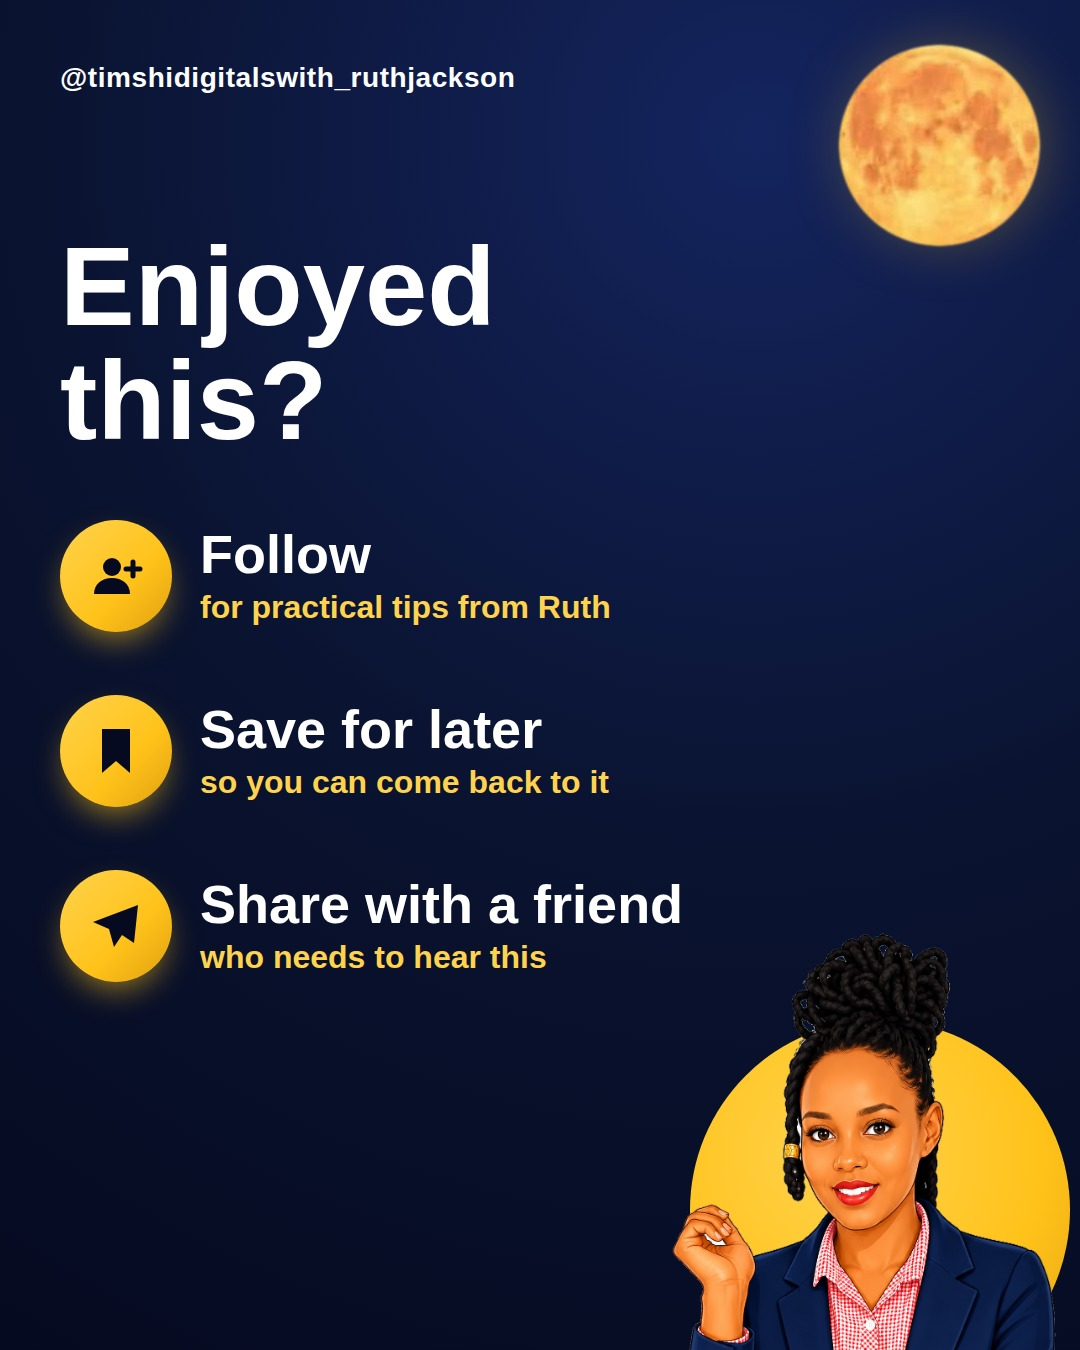
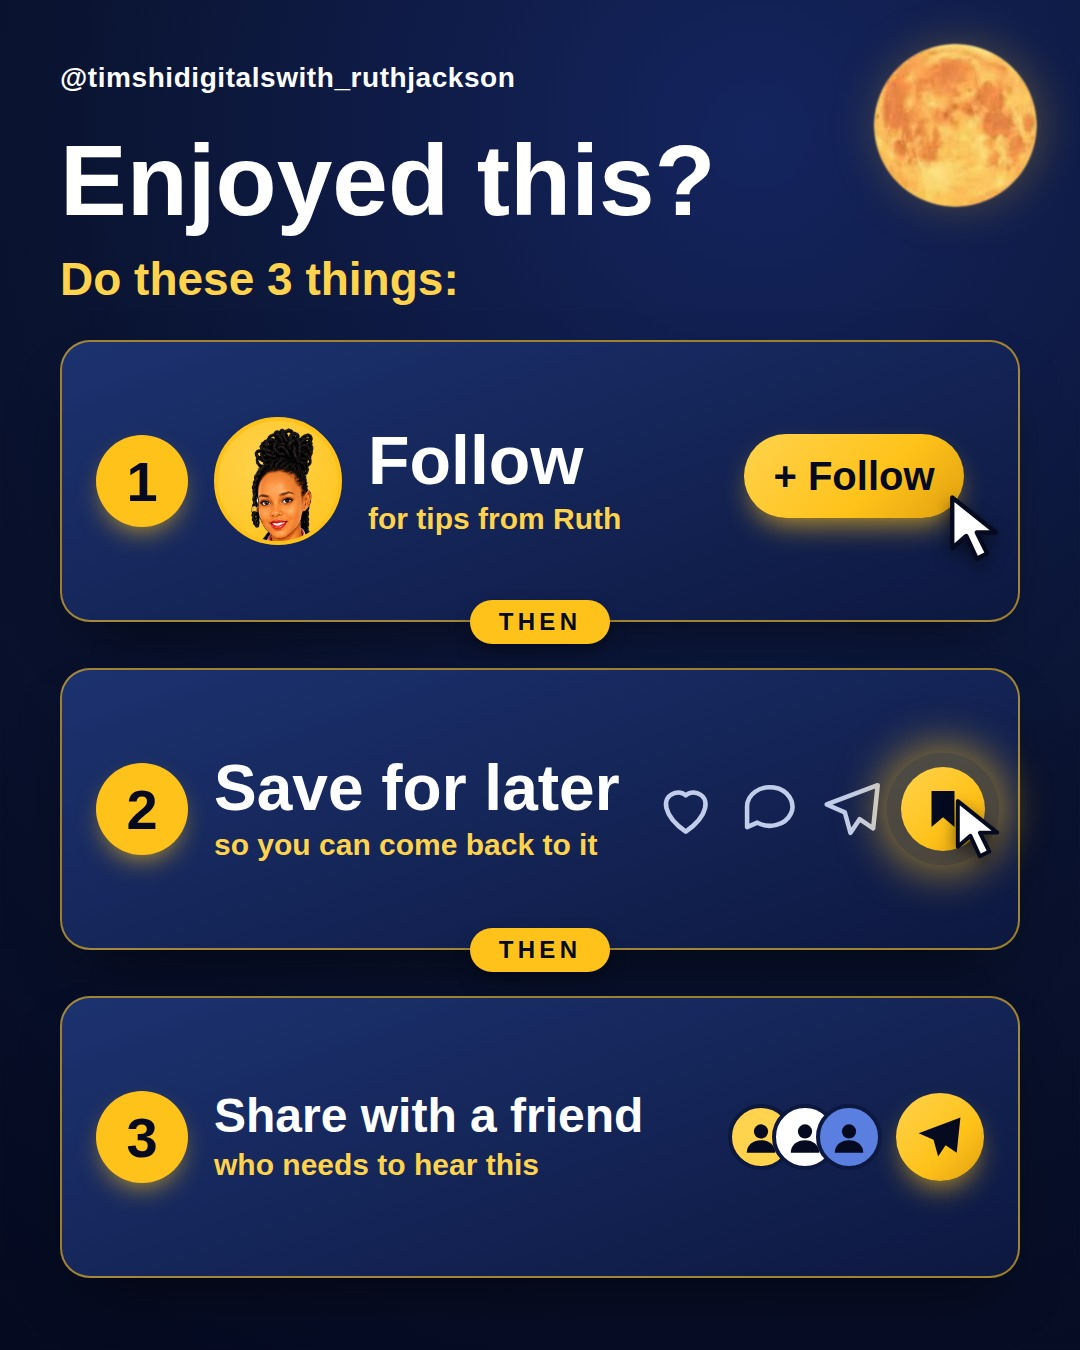
Redo follow, save, share slide as a full-page creative step layout
Claude-Session: https://claude.ai/code/session_01BuedDNHZYcRoXDUMnpxN87

diff --git a/social/carousel-kit/build.js b/social/carousel-kit/build.js
@@ -30,12 +30,21 @@ const icon = k => ({
   follow: '<svg width="56" height="56" viewBox="0 0 56 56"><circle cx="24" cy="19" r="9" fill="#050a20"/><path d="M6 46c0-10 8-16 18-16s18 6 18 16z" fill="#050a20"/><path d="M45 14v14M38 21h14" stroke="#050a20" stroke-width="5" stroke-linecap="round"/></svg>',
   save: '<svg width="56" height="56" viewBox="0 0 56 56"><path d="M14 6h28v44L28 38 14 50z" fill="#050a20"/></svg>',
   share: '<svg width="56" height="56" viewBox="0 0 56 56"><path d="M50 7L5 24l16 7 5 18 8-12 12 8z" fill="#050a20"/></svg>' })[k];
-const follow = () => {
-  const rows = [['follow', 'Follow', 'for practical tips from Ruth'], ['save', 'Save for later', 'so you can come back to it'], ['share', 'Share with a friend', 'who needs to hear this']];
-  return `<style>${base}</style><div class="handle">${HANDLE}</div>${moon(210, 40, 36)}
-<div class="abs" style="top:230px;left:60px;font-size:112px;line-height:1.02;font-weight:900">Enjoyed<br>this?</div>
-${rows.map((r, i) => `<div class="abs" style="top:${520 + i * 175}px;left:60px;display:flex;align-items:center;gap:28px"><div style="width:112px;height:112px;border-radius:50%;background:linear-gradient(135deg,#ffd34d,#ffc21a 60%,#e0a010);display:grid;place-items:center;box-shadow:0 14px 34px -10px rgba(255,194,26,.7);flex:0 0 auto">${icon(r[0])}</div><div><div style="font-size:54px;font-weight:900;line-height:1.05;white-space:nowrap">${r[1]}</div><div class="g" style="font-size:32px;font-weight:700;margin-top:6px;white-space:nowrap">${r[2]}</div></div></div>`).join('')}
-${ruth(430, 650, 930, 380)}`; };
+const cursor = (x, y, s = 1) => `<svg class="abs" style="left:${x}px;top:${y}px;filter:drop-shadow(0 6px 8px rgba(0,0,0,.5))" width="${54 * s}" height="${70 * s}" viewBox="0 0 30 40"><path d="M2 2 L2 31 L10 24 L16 37 L22 34 L16 22 L27 22 Z" fill="#fff" stroke="#050a20" stroke-width="2.5" stroke-linejoin="round"/></svg>`;
+const ripple = (cx, cy) => [60, 100, 140].map((d, i) => `<div class="abs" style="left:${cx - d / 2}px;top:${cy - d / 2}px;width:${d}px;height:${d}px;border-radius:50%;border:${4 - i}px solid rgba(255,211,77,${.75 - i * .22})"></div>`).join('');
+const num = n => `<div style="width:92px;height:92px;border-radius:50%;background:#ffc21a;color:#050a20;display:grid;place-items:center;font-size:56px;font-weight:900;flex:0 0 auto;box-shadow:0 12px 28px -10px rgba(255,194,26,.8)">${n}</div>`;
+const card = (top, inner) => `<div class="abs" style="left:60px;right:60px;top:${top}px;height:282px;border-radius:30px;background:linear-gradient(160deg,#1c3270,#0d1840);border:2px solid rgba(255,194,26,.6);box-shadow:0 30px 60px -30px rgba(0,0,0,.7);display:flex;align-items:center;gap:26px;padding:0 34px;overflow:visible">${inner}</div>`;
+const then = top => `<div class="abs" style="left:50%;margin-left:-70px;top:${top}px;width:140px;height:44px;border-radius:30px;background:#ffc21a;color:#050a20;font-size:24px;font-weight:900;letter-spacing:.18em;display:grid;place-items:center;z-index:3;box-shadow:0 8px 20px -6px rgba(0,0,0,.6)">THEN</div>`;
+const outline = (d, w = 4) => `<svg width="64" height="64" viewBox="0 0 56 56"><path d="${d}" stroke="#c2cdec" stroke-width="${w}" fill="none" stroke-linecap="round" stroke-linejoin="round"/></svg>`;
+const friend = (bg, l) => `<div style="width:66px;height:66px;border-radius:50%;background:${bg};border:4px solid #0d1840;margin-left:${l}px;display:grid;place-items:center"><svg width="38" height="38" viewBox="0 0 48 48"><circle cx="24" cy="17" r="9" fill="#050a20"/><path d="M6 44c0-10 8-16 18-16s18 6 18 16z" fill="#050a20"/></svg></div>`;
+const follow = () => `<style>${base}</style><div class="handle">${HANDLE}</div>${moon(170, 40, 40)}
+<div class="abs" style="top:130px;left:60px;font-size:100px;line-height:1;font-weight:900">Enjoyed this?</div>
+<div class="abs g" style="top:252px;left:60px;font-size:46px;font-weight:800">Do these 3 things:</div>
+${card(340, `${num(1)}<div style="width:128px;height:128px;border-radius:50%;border:4px solid #ffc21a;overflow:hidden;background:radial-gradient(circle at 40% 35%,#ffd34d,#ffc21a);flex:0 0 auto"><img src="${PIC}" style="width:160px;margin:6px 0 0 -16px"></div><div style="flex:1"><div style="font-size:68px;font-weight:900;line-height:1">Follow</div><div class="g" style="font-size:30px;font-weight:700;margin-top:8px;white-space:nowrap">for tips from Ruth</div></div><div style="position:relative;width:250px;height:100%;flex:0 0 auto"><div class="abs" style="left:10px;top:92px;width:220px;height:84px;border-radius:44px;background:linear-gradient(135deg,#ffd34d,#ffc21a 60%,#e0a010);color:#050a20;font-size:40px;font-weight:900;display:grid;place-items:center;box-shadow:0 14px 30px -10px rgba(255,194,26,.8)">+ Follow</div>${cursor(214, 152)}</div>`)}
+${then(600)}
+${card(668, `${num(2)}<div style="flex:1"><div style="font-size:64px;font-weight:900;line-height:1;white-space:nowrap">Save for later</div><div class="g" style="font-size:30px;font-weight:700;margin-top:8px;white-space:nowrap">so you can come back to it</div></div><div style="position:relative;width:330px;height:100%;flex:0 0 auto;display:flex;align-items:center;gap:20px">${outline('M28 48C8 34 6 18 18 14c6-2 10 2 10 2s4-4 10-2c12 4 10 20-10 34z')}${outline('M8 26a20 17 0 1 1 9 14l-9 4z')}${outline('M50 7L5 24l16 7 5 18 8-12 12 8z')}<div style="position:relative;width:84px;height:84px;margin-left:-4px"><div class="abs" style="left:-14px;top:-14px;width:112px;height:112px;border-radius:50%;background:rgba(255,194,26,.25);box-shadow:0 0 40px 10px rgba(255,194,26,.5)"></div><div class="abs" style="left:0;top:0;width:84px;height:84px;border-radius:50%;background:linear-gradient(135deg,#ffd34d,#ffc21a 60%,#e0a010);display:grid;place-items:center"><svg width="46" height="46" viewBox="0 0 56 56"><path d="M14 6h28v44L28 38 14 50z" fill="#050a20"/></svg></div></div>${cursor(300, 128, .9)}</div>`)}
+${then(928)}
+${card(996, `${num(3)}<div style="flex:1"><div style="font-size:48px;font-weight:900;line-height:1.02;white-space:nowrap">Share with a friend</div><div class="g" style="font-size:30px;font-weight:700;margin-top:8px;white-space:nowrap">who needs to hear this</div></div><div style="display:flex;align-items:center;flex:0 0 auto;position:relative">${friend('#ffd34d', 0)}${friend('#ffffff', -22)}${friend('#5b7fe0', -22)}<div style="margin-left:14px;width:88px;height:88px;border-radius:50%;background:linear-gradient(135deg,#ffd34d,#ffc21a 60%,#e0a010);display:grid;place-items:center;box-shadow:0 14px 30px -10px rgba(255,194,26,.8)"><svg width="52" height="52" viewBox="0 0 56 56"><path d="M50 7L5 24l16 7 5 18 8-12 12 8z" fill="#050a20"/></svg></div></div>`)}`;
 (async () => {
   const b = await chromium.launch({ executablePath: '/opt/pw-browsers/chromium' });
   const pg = await b.newPage({ viewport: { width: 1080, height: 1350 } });

diff --git a/social/carousel-kit/STYLE-GUIDE.md b/social/carousel-kit/STYLE-GUIDE.md
@@ -13,7 +13,7 @@ Build a 7-slide carousel, 1080x1350 JPG, for the topic: <TOPIC>. Use Ruth's desi
 - Slide 1 (cover): the viewer-addressing hook in big white bold text (3 short lines, starts with "You" or "Your"), then one gold line with the cost or promise. Nothing else.
 - Slides 2 to 5 (tips): gold circle with the navy number, tip title in big white bold, explanation in bold gold addressed to the viewer ("you"), four small progress dots bottom-left.
 - Slide 6 (call to action): "You can learn this with Ruth." in white, the course name in gold, a green "WhatsApp" button (label only, no number), then small white lines for TikTok, Instagram, Facebook and coachruthjackson.com.
-- Slide 7 (engagement): "Enjoyed this?" in white, then three rows with a gold circle and navy icon: Follow (for practical tips from Ruth), Save for later (so you can come back to it), Share with a friend (who needs to hear this). Same moon, handle and portrait.
+- Slide 7 (engagement): "Enjoyed this?" in white and "Do these 3 things:" in gold, then three full-width navy cards linked by gold "THEN" pills. Card 1: Ruth's avatar, "Follow" and a gold "+ Follow" button with a tap cursor. Card 2: "Save for later" with an action bar (heart, comment, share) and a glowing gold bookmark being tapped. Card 3: "Share with a friend" with friend avatars and a gold send button. Handle and moon stay; no swipe cue on this last slide.
 - Swipe cue: slides 1 to 6 have a small gold outlined "SWIPE →" pill at the bottom-left (above the progress dots on tip slides). The last slide (7) has none.
 - Copy rules: short sentences, speak to the viewer as "you", no em-dashes, no made-up statistics, fake quotes or client names.
 - Always post the finished slides in the chat so Ruth can see them.
